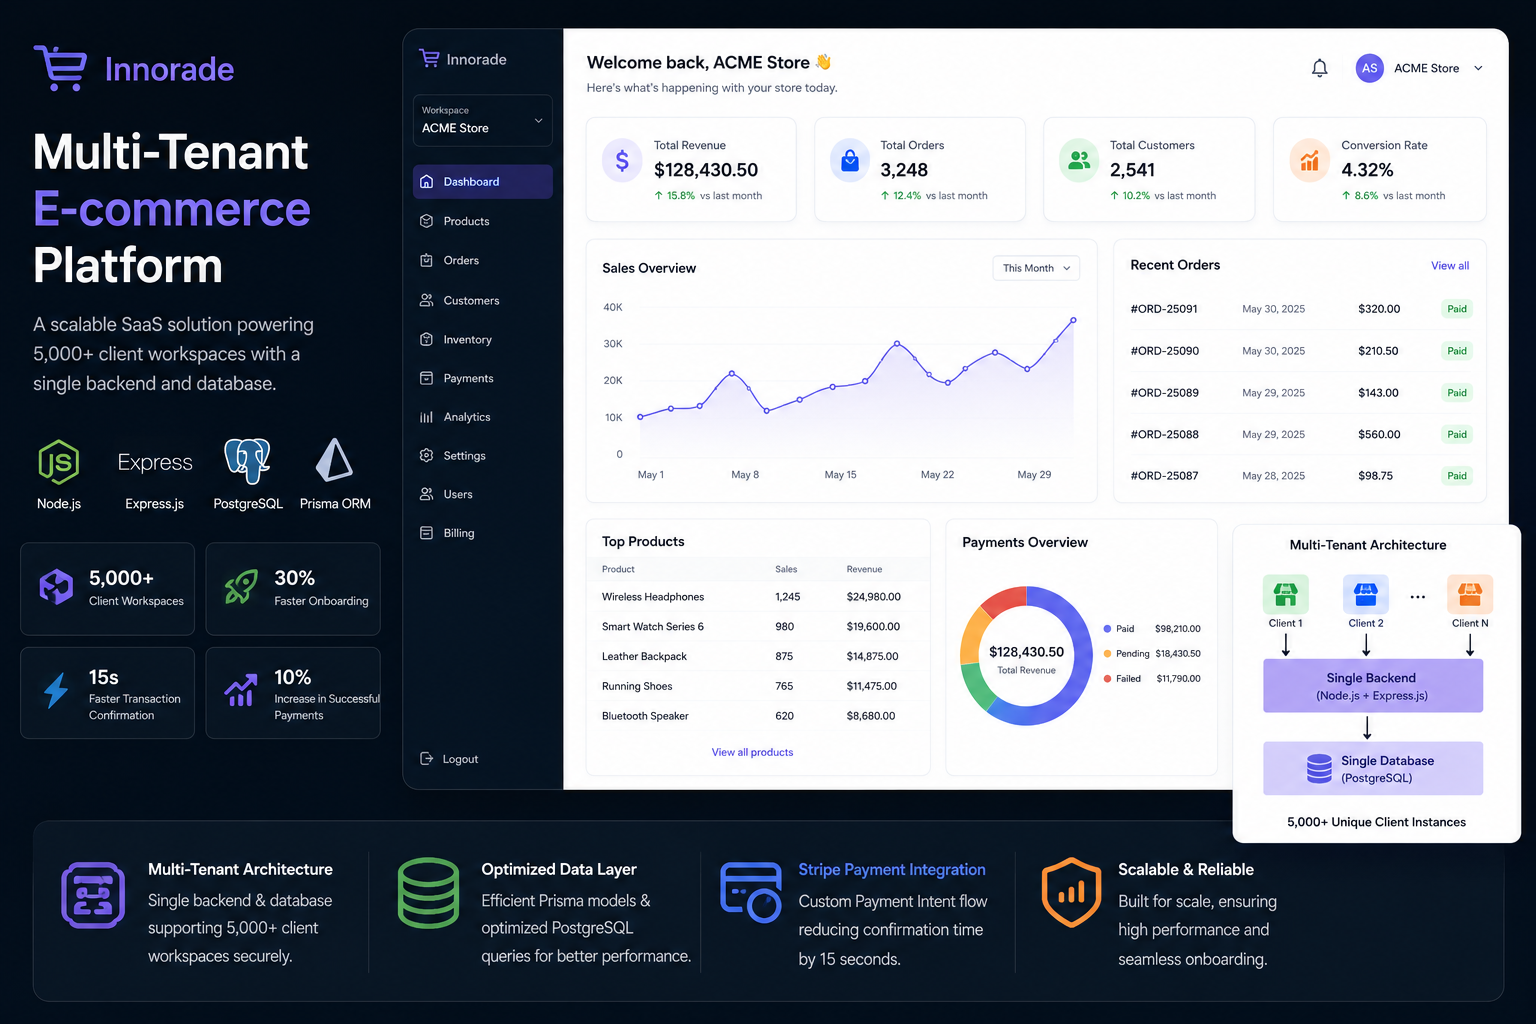
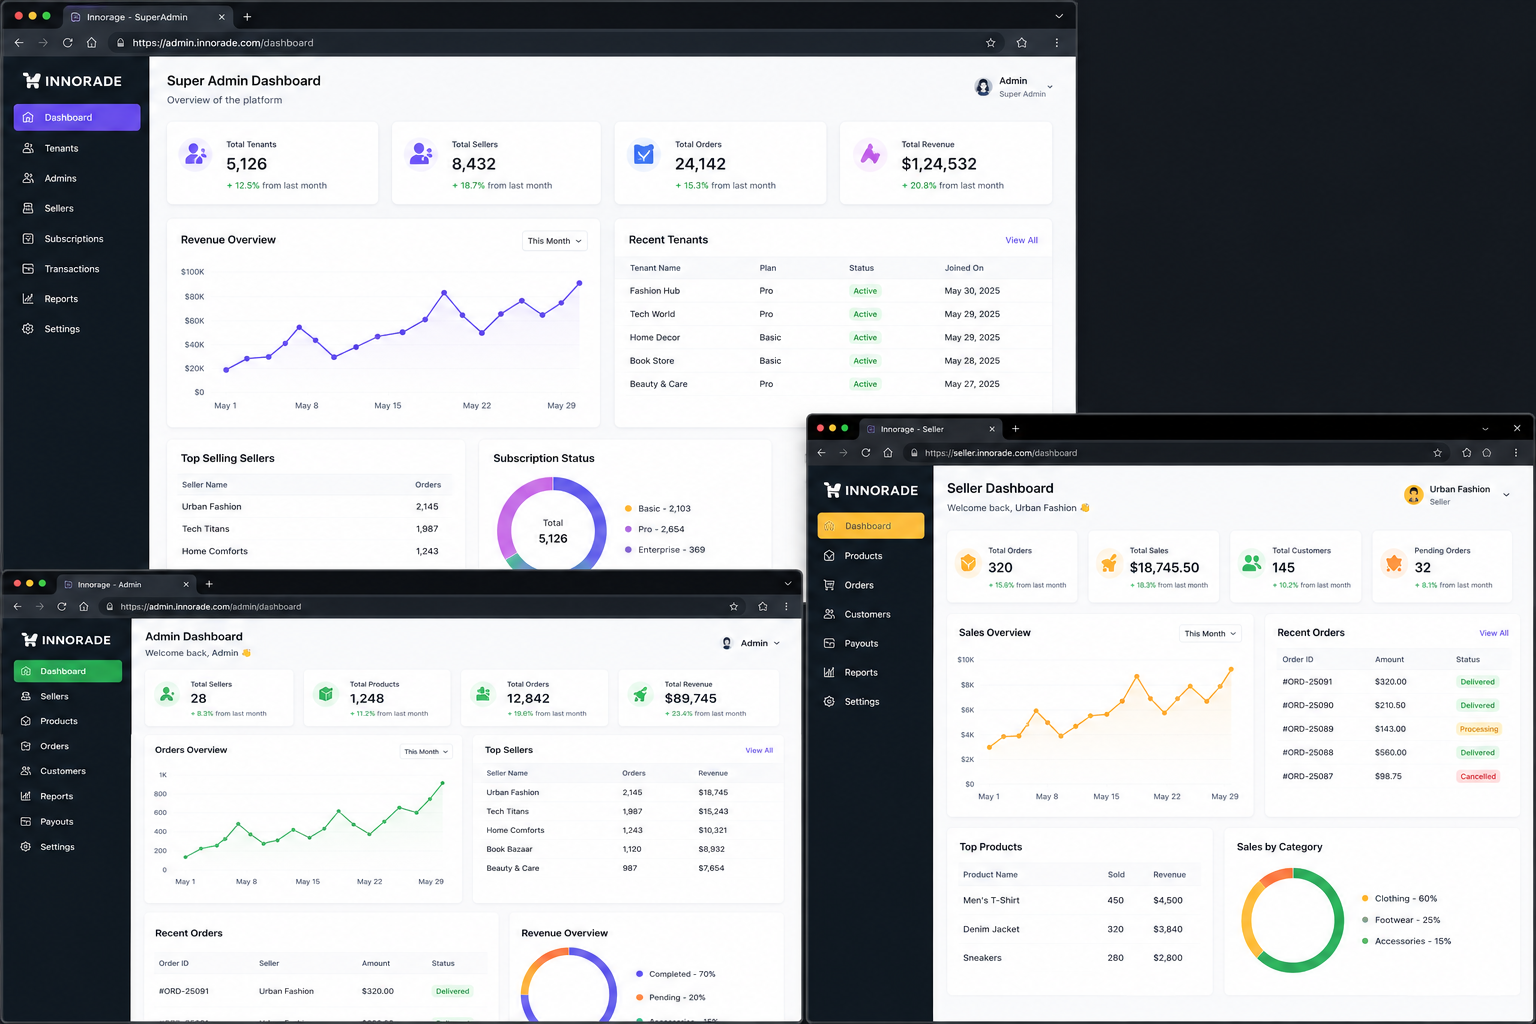
UI update

diff --git a/sections/hero-section.tsx b/sections/hero-section.tsx
@@ -53,7 +53,7 @@ export function HeroSection({ onExplore }: Props) {
   const currentRole = siteConfig.rotatingRoles[roleIndex];
 
   return (
-    <section className="relative flex h-auto select-none flex-col items-center justify-center overflow-hidden bg-zinc-950 pb-10 pt-20 sm:pb-12 sm:pt-24 md:h-svh md:flex-row md:items-center md:justify-between">
+    <section className="relative flex h-auto select-none flex-col items-center justify-center overflow-hidden bg-zinc-950 pb-10 pt-20 sm:pb-12 sm:pt-24 md:h-svh md:min-h-[600px] md:flex-row md:items-center md:justify-between">
       <div className="pointer-events-none absolute inset-0 z-0 opacity-[0.03] mix-blend-overlay" />
 
       {/* CREATIVE text — large desktop only, positioned absolutely to the section */}
@@ -67,7 +67,7 @@ export function HeroSection({ onExplore }: Props) {
       {/* Role ticker — positioned absolutely to the section, tablet+ */}
       <div
         style={{ height: "min(8vw, 64px)" }}
-        className="pointer-events-none absolute bottom-[6rem] right-[5%] z-[25] hidden overflow-hidden sm:flex md:bottom-[5rem] lg:bottom-[6rem]"
+        className="pointer-events-none absolute bottom-[5rem] right-[4%] z-[25] hidden overflow-hidden md:flex md:bottom-[4rem] lg:bottom-[5rem]"
       >
         <AnimatePresence mode="wait">
           <motion.h3
@@ -122,16 +122,16 @@ export function HeroSection({ onExplore }: Props) {
         </Magnetic>
       </div>
 
-      <div className="relative z-20 mx-auto flex w-full max-w-[86.25rem] flex-col items-center gap-6 px-4 sm:gap-8 sm:px-6 md:flex-row md:pl-20 md:pr-10 lg:pl-28 lg:pr-16 xl:pl-32 xl:pr-20">
+      <div className="relative z-20 mx-auto flex w-full max-w-[86.25rem] flex-col items-center gap-4 px-4 sm:gap-6 sm:px-6 md:flex-row md:gap-4 md:px-8 md:pl-14 md:pr-6 lg:pl-28 lg:pr-16 xl:pl-32 xl:pr-20">
         {/* Text Content */}
-        <div className="relative z-[35] flex w-full flex-col justify-center text-center md:w-[48%] md:text-left lg:w-[45%]">
+        <div className="relative z-[35] flex w-full flex-col justify-center text-center md:w-[50%] md:text-left lg:w-[45%]">
           <motion.div initial={{ opacity: 0, y: 30 }} animate={{ opacity: 1, y: 0 }} transition={{ duration: 0.6, ease: "easeOut" }}>
             <span className="mb-3 inline-block pl-1 font-mono text-sm font-bold uppercase tracking-wide text-cyan-400 sm:mb-4 sm:text-base">
               Hello! I&apos;m
             </span>
           </motion.div>
 
-          <h1 className="flex flex-col font-sans text-[11vw] font-black uppercase leading-[0.9] tracking-tighter text-zinc-100 sm:text-[13vw] md:text-[clamp(60px,8vw,96px)] md:leading-none">
+          <h1 className="flex flex-col font-sans text-[11vw] font-black uppercase leading-[0.9] tracking-tighter text-zinc-100 sm:text-[13vw] md:text-[clamp(36px,5.5vw,72px)] md:leading-none lg:text-[clamp(52px,7vw,96px)]">
             <span className="flex justify-center overflow-hidden py-0 md:justify-start md:py-1">
               {Array.from(siteConfig.firstName).map((char, index) => (
                 <motion.span
@@ -174,7 +174,7 @@ export function HeroSection({ onExplore }: Props) {
             initial={{ opacity: 0 }}
             animate={{ opacity: 1 }}
             transition={{ duration: 1, delay: 0.4 }}
-            className="mx-auto mt-6 max-w-sm border-l-2 border-zinc-800 pl-4 text-base font-medium leading-relaxed text-zinc-400 sm:mt-8 sm:max-w-md sm:text-lg md:mx-0 md:mt-10 md:text-lg lg:text-xl"
+            className="mx-auto mt-4 max-w-sm border-l-2 border-zinc-800 pl-4 text-sm font-medium leading-relaxed text-zinc-400 sm:mt-6 sm:max-w-md sm:text-base md:mx-0 md:mt-6 md:text-base lg:mt-10 lg:text-xl"
           >
             I build <strong className="text-zinc-100">intelligent</strong> digital experiences combining
             high-performance code with striking visual design.
@@ -226,7 +226,7 @@ export function HeroSection({ onExplore }: Props) {
         </div>
 
         {/* Portrait — contained, overflow clipped */}
-        <div className="relative flex w-full items-end justify-center overflow-hidden sm:h-auto md:w-[48%] md:items-center md:justify-end lg:w-[50%]">
+        <div className="relative flex w-full items-end justify-center overflow-hidden sm:h-auto md:w-[46%] md:items-center md:justify-end lg:w-[50%]">
           <motion.div
             initial={{ scale: 1, opacity: 0 }}
             animate={{ scale: 1, opacity: 1 }}
@@ -239,7 +239,7 @@ export function HeroSection({ onExplore }: Props) {
             }}
             className="pointer-events-auto relative z-20 w-full overflow-hidden"
             style={{
-              maxWidth: "clamp(14rem, 55vw, 30rem)",
+              maxWidth: "clamp(12rem, 38vw, 30rem)",
               aspectRatio: "3 / 4",
             }}
           >

diff --git a/components/skills-scene.tsx b/components/skills-scene.tsx
@@ -35,9 +35,9 @@ const HEMISPHERE_SEGMENTS: [number, number, number, number, number, number][] = 
 // ─── Helpers ──────────────────────────────────────────────────────────────────
 
 /** Build an initial ball-grid layout. Called synchronously so balls exist on the first render frame. */
-function buildGrid(allSkills: Skill[], mobile: boolean): Ball[] {
-  const radius = mobile ? 0.52 : 1.1;
-  const cols = mobile ? 4 : 7;
+function buildGrid(allSkills: Skill[], mobile: boolean, tablet: boolean): Ball[] {
+  const radius = mobile ? 0.52 : tablet ? 0.75 : 1.1;
+  const cols = mobile ? 4 : tablet ? 5 : 7;
   const spacingX = radius * 2.2;
   const spacingY = radius * 2.6; // extra vertical gap for Html labels
 
@@ -216,19 +216,23 @@ function SkillBall({
 
 function SkillsPhysics({ allSkills }: { allSkills: Skill[] }) {
   const isMobile = typeof window !== "undefined" && window.innerWidth < 768;
+  const isTablet = typeof window !== "undefined" && window.innerWidth >= 768 && window.innerWidth < 1024;
 
   // Build grid synchronously so balls exist on the very first render frame
-  const ballsRef = useRef<Ball[]>(buildGrid(allSkills, isMobile));
+  const ballsRef = useRef<Ball[]>(buildGrid(allSkills, isMobile, isTablet));
   const mouseRef = useRef({ x: 0, y: 0, active: false });
   const isMobileRef = useRef(isMobile);
+  const isTabletRef = useRef(isTablet);
 
-  // Rebuild grid when viewport crosses the mobile breakpoint
+  // Rebuild grid when viewport crosses the mobile/tablet breakpoints
   useEffect(() => {
     const onResize = () => {
       const mobile = window.innerWidth < 768;
-      if (mobile !== isMobileRef.current) {
+      const tablet = window.innerWidth >= 768 && window.innerWidth < 1024;
+      if (mobile !== isMobileRef.current || tablet !== isTabletRef.current) {
         isMobileRef.current = mobile;
-        ballsRef.current = buildGrid(allSkills, mobile);
+        isTabletRef.current = tablet;
+        ballsRef.current = buildGrid(allSkills, mobile, tablet);
       }
     };
     window.addEventListener("resize", onResize);
@@ -243,11 +247,12 @@ function SkillsPhysics({ allSkills }: { allSkills: Skill[] }) {
     mouseRef.current = { x: mx, y: my, active: isActive };
 
     const mobile = isMobileRef.current;
-    const attractRadius = mobile ? 2.4 : 5.5;
+    const tablet = isTabletRef.current;
+    const attractRadius = mobile ? 2.4 : tablet ? 3.5 : 5.5;
     const damping = isActive ? 0.98 : 0.995;
-    // Extra margin on mobile so Html labels don't clip at the canvas edge
-    const boundsX = viewport.width / 2 - (mobile ? 0.7 : 1.2);
-    const boundsY = viewport.height / 2 - (mobile ? 1.1 : 1.2);
+    // Extra margin on mobile/tablet so Html labels don't clip at the canvas edge
+    const boundsX = viewport.width / 2 - (mobile ? 0.7 : tablet ? 0.9 : 1.2);
+    const boundsY = viewport.height / 2 - (mobile ? 1.1 : tablet ? 1.0 : 1.2);
 
     // ── Apply forces ──────────────────────────────────────────────────────────
     for (const ball of balls) {
@@ -357,8 +362,8 @@ export function SkillsScene() {
   return (
     <div
       ref={containerRef}
-      // Taller on mobile to fit 4-column × 7-row grid with labels
-      className="relative flex h-[56rem] w-full cursor-crosshair items-center justify-center overflow-hidden bg-zinc-950 md:h-[50rem]"
+      // Height responsive: tallest on mobile (4-col grid), medium on tablet (5-col), compact on desktop
+      className="relative flex h-[56rem] w-full cursor-crosshair items-center justify-center overflow-hidden bg-zinc-950 md:h-[44rem] lg:h-[50rem]"
     >
       {everVisible ? (
         <Canvas camera={{ position: [0, 0, 40], fov: 20 }} gl={{ antialias: true, alpha: true }}>

diff --git a/sections/education-section.tsx b/sections/education-section.tsx
@@ -14,7 +14,7 @@ function EducationIcon({ type }: { type: string }) {
 export function EducationSection() {
   return (
     <Section id="education" title="Education" subtitle="My Academic Journey">
-      <div className="relative mx-auto mt-6 flex w-full flex-col gap-12 sm:mt-8 md:mt-12 md:gap-20 md:px-4 lg:gap-24 lg:px-8">
+      <div className="relative mx-auto mt-6 flex w-full flex-col gap-10 sm:mt-8 md:mt-10 md:gap-14 md:px-4 lg:gap-20 lg:px-8">
         {education.map((item, index) => (
           <motion.div
             key={item.id}
@@ -22,10 +22,10 @@ export function EducationSection() {
             whileInView={{ opacity: 1 }}
             viewport={{ once: true, margin: "-80px" }}
             transition={{ duration: 0.8 }}
-            className="flex w-full flex-col items-start justify-between gap-6 border-b border-zinc-800/40 pb-12 last:border-0 last:pb-0 sm:gap-8 md:flex-row md:items-center md:gap-10 md:pb-20 lg:gap-14 lg:pb-24"
+            className="flex w-full flex-col items-start justify-between gap-6 border-b border-zinc-800/40 pb-10 last:border-0 last:pb-0 sm:gap-8 md:gap-10 md:pb-14 lg:flex-row lg:items-center lg:gap-14 lg:pb-20 xl:pb-24"
           >
             {/* Left: Info */}
-            <div className="relative flex w-full flex-row items-start gap-3 md:w-1/2 md:gap-5 lg:gap-6">
+            <div className="relative flex w-full flex-row items-start gap-3 lg:w-1/2 lg:gap-5 xl:gap-6">
               <div className="pointer-events-none absolute -left-3 -top-6 z-0 select-none opacity-20 sm:-left-4 sm:-top-8">
                 <EducationIcon type={item.type} />
               </div>
@@ -54,7 +54,7 @@ export function EducationSection() {
             </div>
 
             {/* Right: Card */}
-            <div className="flex w-full items-center justify-center md:w-1/2">
+            <div className="flex w-full items-center justify-center lg:w-1/2">
               <TiltCard className="w-full">
                 <div
                   className="group relative w-full overflow-hidden rounded-xl border border-white/10 bg-zinc-900/50 p-5 shadow-2xl sm:rounded-2xl sm:p-6 md:p-8"

diff --git a/sections/projects-section.tsx b/sections/projects-section.tsx
@@ -11,7 +11,7 @@ import { projects } from "@/constants/site";
 export function ProjectsSection() {
   return (
     <Section id="projects" title="My Work" subtitle="Featured Works">
-      <div className="relative mx-auto mt-6 flex w-full flex-col gap-12 sm:mt-8 md:mt-12 md:gap-20 md:px-4 lg:gap-24 lg:px-8">
+      <div className="relative mx-auto mt-6 flex w-full flex-col gap-10 sm:mt-8 md:mt-10 md:gap-14 md:px-4 lg:gap-20 lg:px-8">
         {projects.map((project, index) => (
           <motion.div
             key={project.id}
@@ -19,10 +19,10 @@ export function ProjectsSection() {
             whileInView={{ opacity: 1 }}
             viewport={{ once: true, margin: "-80px" }}
             transition={{ duration: 0.8 }}
-            className="flex w-full flex-col items-start justify-between gap-8 border-b border-zinc-800/40 pb-12 last:border-0 last:pb-0 sm:gap-8 md:flex-row md:items-center md:gap-10 md:pb-20 lg:gap-14 lg:pb-24"
+            className="flex w-full flex-col items-start justify-between gap-8 border-b border-zinc-800/40 pb-10 last:border-0 last:pb-0 sm:gap-8 md:gap-10 md:pb-14 lg:flex-row lg:items-center lg:gap-14 lg:pb-20 xl:pb-24"
           >
             {/* Left: Info */}
-            <div className="flex w-full flex-row items-start gap-3 md:w-1/2 md:gap-5 lg:gap-6">
+            <div className="flex w-full flex-row items-start gap-3 lg:w-1/2 lg:gap-5 xl:gap-6">
               <span className="select-none font-mono text-3xl font-black leading-none text-zinc-800/50 sm:text-4xl md:text-5xl lg:text-7xl">
                 {String(index + 1).padStart(2, "0")}
               </span>
@@ -88,7 +88,7 @@ export function ProjectsSection() {
             </div>
 
             {/* Right: Image card */}
-            <div className="flex w-full items-center justify-center md:w-1/2">
+            <div className="flex w-full items-center justify-center lg:w-1/2">
               <TiltCard className="w-full">
                 <div
                   className="group relative block aspect-[16/10] w-full overflow-hidden rounded-xl border border-white/5 bg-zinc-950/50 shadow-2xl sm:rounded-2xl"

diff --git a/sections/about-section.tsx b/sections/about-section.tsx
@@ -17,10 +17,10 @@ export function AboutSection() {
       className="flex flex-col justify-center"
     >
       {/* Two-column layout: sticky avatar LEFT, scrollable text RIGHT */}
-      <div className="mt-4 flex w-full flex-col items-start gap-10 md:mt-8 md:flex-row md:gap-16 lg:gap-20">
+      <div className="mt-4 flex w-full flex-col items-start gap-8 md:mt-8 md:flex-row md:gap-10 lg:gap-16 xl:gap-20">
 
         {/* LEFT: Sticky Avatar */}
-        <div className="flex w-full shrink-0 items-center justify-center md:sticky md:top-28 md:w-[38%] md:self-start lg:top-32 lg:w-[36%] xl:w-[34%]">
+        <div className="flex w-full shrink-0 items-center justify-center md:sticky md:top-28 md:w-[34%] md:self-start lg:top-32 lg:w-[36%] xl:w-[34%]">
           <motion.div
             initial={{ opacity: 0, x: -40 }}
             whileInView={{ opacity: 1, x: 0 }}
@@ -68,7 +68,7 @@ export function AboutSection() {
           >
             {/* Headline */}
             <motion.h3
-              className="mb-5 flex flex-wrap gap-x-2 gap-y-1 text-2xl font-black uppercase leading-none tracking-tighter text-white sm:text-3xl md:mb-6 md:text-4xl lg:text-5xl xl:text-6xl"
+              className="mb-5 flex flex-wrap gap-x-2 gap-y-1 text-2xl font-black uppercase leading-none tracking-tighter text-white sm:text-3xl md:mb-6 md:text-3xl lg:text-4xl xl:text-6xl"
             >
               {headline.split(" ").map((word, index) => (
                 <span key={`${word}-${index}`} className="inline-flex overflow-hidden pb-1">

diff --git a/components/section.tsx b/components/section.tsx
@@ -36,14 +36,14 @@ export function Section({ children, id, className = "", title, subtitle }: Props
       ref={ref}
       id={id}
       className={cn(
-        "relative mx-auto w-full max-w-[86.25rem] scroll-mt-16 px-4 py-10 sm:px-6 md:scroll-mt-28 md:py-20 md:pl-20 md:pr-10 lg:pl-28 lg:pr-16 xl:pl-32 xl:pr-20",
+        "relative mx-auto w-full max-w-[86.25rem] scroll-mt-16 px-4 py-10 sm:px-6 md:scroll-mt-28 md:py-16 md:pl-10 md:pr-8 lg:py-20 lg:pl-28 lg:pr-16 xl:pl-32 xl:pr-20",
         className
       )}
     >
       {title && (
         <div className="relative mb-8 w-full text-left md:mb-12">
           <div className="relative z-10 flex flex-col items-start overflow-visible">
-            <h2 className="flex flex-wrap items-center overflow-visible font-sans text-4xl font-black uppercase leading-none tracking-tighter text-zinc-100 sm:text-5xl md:text-6xl lg:text-7xl">
+            <h2 className="flex flex-wrap items-center overflow-visible font-sans text-4xl font-black uppercase leading-none tracking-tighter text-zinc-100 sm:text-5xl md:text-5xl lg:text-6xl xl:text-7xl">
               {title.toUpperCase().split(" ").map((word) => (
                 <span key={word} className="mr-[0.25em] flex overflow-hidden py-1 pr-2.5">
                   {Array.from(word).map((char) => {
